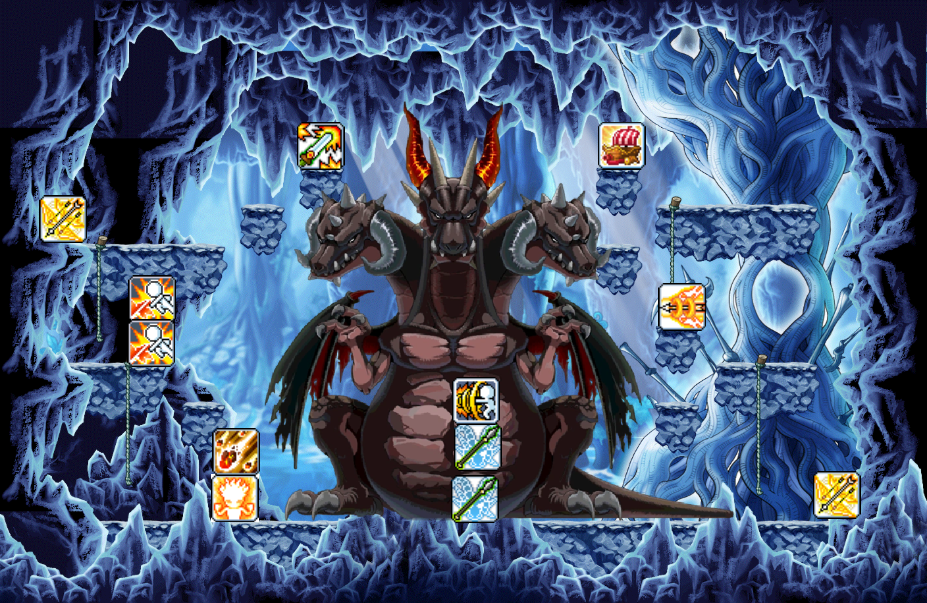
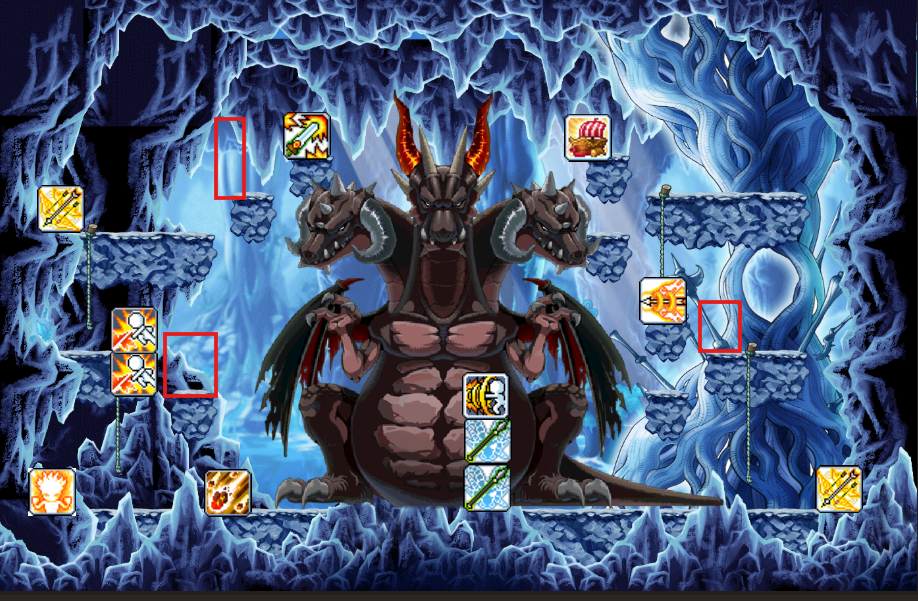
update prepare

diff --git a/prepare.html b/prepare.html
@@ -169,10 +169,12 @@
       <img src="images/right1.png">
     </div>
     <div class="section">
-      <h1>右頭</h1>
-      <h2>物免魔免九歌&遊俠要跟農夫換位</h2>
-      <h2>萬一傷害不夠 第二場開始 進場下煙(所有人都打 煙消再掛繩)</h2>
-      <h2>然後等到時間快到 再進本體</h2>
+      <h1>右頭 進場黑哥下煙 煙後其他人掛繩</h1>
+      <h3>2F 可口 & 遊俠</h3>
+      <h3>1F 超人 & 農夫 & 企鵝</h3>
+      <h3>企鵝上船跳打可以打 下船原地跳緩降躲電 竹筍右走躲</h3>
+      <h3>物免魔免可口跟農夫換位</h3>
+      <h3>然後等到時間快到 再進本體</h3>
       <img src="images/right_2.png">
       <h2>安全點大概位置</h2>
       <img src="images/right_3.png">
@@ -211,60 +213,53 @@
       <h1>請記得把血補滿 尤其是敏職 血量很剛好</h1>
       <h1>開局建議竹筍吃出原地就吃 不要怕  後面煙下完 會放龍消debuff</h1>
       <h3>遊俠左上開局 只要下面的人不跳 前面的人不來 你不會吃到傳導電</h3>
-      <h3>海豹&黑哥躲招往前走下小平台</h3>
-      <h3>5566建議跳躲紅咬 竹筍吃到沒關西 只有紅閃才下來左上大平台</h3>
-      <h3>九歌&ruby 跳打的同時請注意左右手黃光的圖示 請馬上補火</h3>
+      <h3>海豹&黑哥站位重疊  躲招往前走下小平台</h3>
+      <h3>55662個小平台都給你  建議跳躲紅咬 竹筍吃到沒關西 紅閃至紅框處躲看看 躲不了 請吃紅閃疊電 躲竹筍 注意debuff層數</h3>
+      <h3>九歌&ruby 跳打的同時請注意左右手黃光的圖示 一直補火力消 黃光結束才消技</h3>
       <h3>下層輕踩(9400UP)記得躲(尤其是麻糬)</h3>
       <img src="images/5_1.png">
     </div>
-    <img src="images/red_light.png">
     <div class="section">
-      <h2>改成下到4顆煙  希望能讓大家看到黑鎖鏈</h2>
-      <h2> 超人&可口 消技要喊,  九歌在煙內所以比較有空請看左右手出金黃色光芒就狂補火</h2>
-      <img src="images/6.png">
+      <h2>27:30 海豹下一煙</h2>
+      <h2>下煙完請通知時間 以利後續接上  避免時間不同步 所以快到記得提醒 (還有20秒... 還有10秒...)</h2>
+      <h2>下煙前&置換前請先移動角色避免卡技能bug</h2>
+      <h2> 九歌&ruby在煙內所以比較有空請看左右手出金黃色光芒就狂補火</h2>
+      <img src="images/smoke.png">
       <img src="images/6-1.png">
-      <img src="images/7.png">
-      <img src="images/8.png">
-      <img src="images/9.png">
+      <h2>26:50 黑哥下二煙</h2>
+      <h2>黑哥下完煙退隊 海豹踢5566組黑哥 >> 超人置換 >> 踢黑哥組5566 >> 農夫組黑哥</h2>
+      <img src="images/smoke.png">
+      <h2>26:10 海豹下三煙</h2>
+      <img src="images/smoke.png">
+      <h2>25:30 黑哥下四煙</h2>
+      <h2>24:50 黑哥通知大家離開 左上右上先走</h2>
+      <img src="images/smoke.png">
       <h2>回復起始站位</h2>
       <h2>可口停手30秒 注意一下要不要停手 可能不用因為下到4顆煙</h2>
       <img src="images/5_1.png">
       <h2>龍尾斷後</h2>
       <h2>位置不變</h2>
       <h2>超人&ruby配合放龍進去 一定要消 但不要放錯  錯過就下一次 不急</h2>
+      <h2>超人請提早農夫停火流星 避免卡龍</h2>
       <img src="images/5_1.png">
+      <h2>黑鎖出之後 麻糬開始計時  快到時請喊 還有10秒...</h2>
+      <h2>左右上排都靠邊邊可以躲  5566 請加油.. 因為你如果去跟遊俠站 一個振翅遊俠就掰了 所以希望你不要動 要躲在移動</h2>
+      <h2>大概這個時候 差不多可以消debuff 請超人指揮</h2>
+      <img src="images/black_lock.png">
 
-      <a href="https://www.youtube.com/watch?v=kYBhWRieoyQ&t=420s" target="_blank" rel="noopener noreferrer">
-        <img src="images/13.png">
-      </a>
+      <h2>我預期是左頭先掉 集中中頭 左頭掉了 開始換位</h2>
+      <img src="images/after_lefthead.png">
 
-      <a href="https://www.youtube.com/watch?v=sr6nI1_JVxU&t=1720s" target="_blank" rel="noopener noreferrer">
-        <img src="images/14.png">
-      </a>
+      <h2>大電出了 海豹下五煙</h2>
+      <h2>九歌&麻糬上來補傷害</h2>
+      <h2>看到下煙之後 超人&ruby請消debuff (注意祭壇變了沒)</h2>
+      <img src="images/right_big.png">
+      <h2>黑哥下六煙 理論上煙會蓋滿大電</h2>
+      <h2>超人消debuff之後 請煙內的人去吃大電疊電</h2>
+      <img src="images/eat_right_big.png">
+      <h2>煙結束之後 回復站位 右頭只剩竹筍</h2>
+      <img src="images/after_lefthead.png">
 
-      <h2>左頭掉了 集中中頭</h2>
-      <h2>最好的情況是 中頭掉了 右頭大閃才出</h2>
-      <h2>海豹右上  黑哥左下</h2>
-      <h2>可口躲招 請往前走小平台 切忌不要跳</h2>
-      <h2>企鵝紅咬請跳躲</h2>
-      <img src="images/15_1.png">
-      <div class="section wide-section boss-order">
-        <h3>⚔ 出場順序</h3>
-        <div class="order-flow">
-          <span>超人</span>
-          <span>➜</span>
-
-          <span>企鵝</span>
-          <span>➜</span>
-
-          <span>農夫</span>
-          <span>➜</span>
-
-          <span>麻糬</span>
-          <span>➜</span>
-
-          <span>其他人</span>
-        </div>
       </div>
     </div>
 
